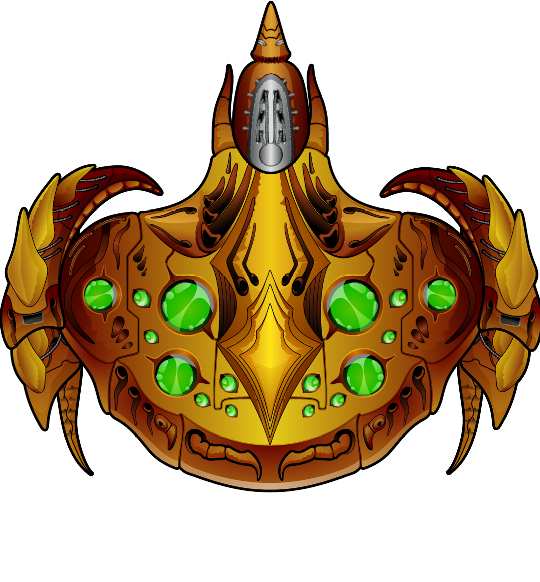
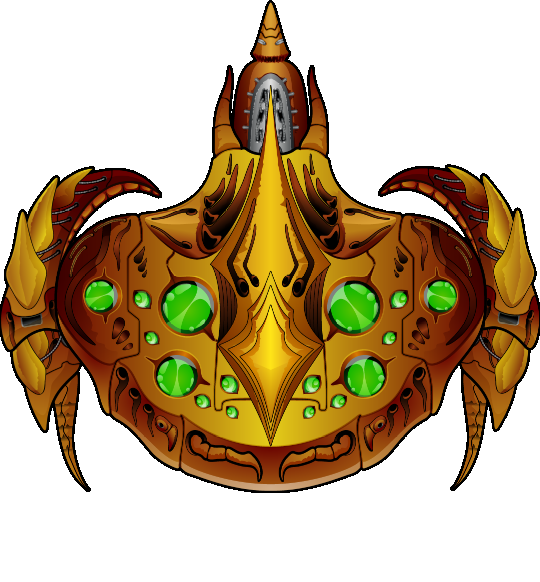
fixed landing animation png

Changed region(s): [[0.0, 0.0, 1.0, 0.866], [0.5037, 0.3402, 0.5333, 0.4021]]

diff --git a/Ship/Ship.js b/Ship/Ship.js
@@ -7,8 +7,8 @@ class Ship {
         this.idleAnimation = new Animation(AM.getAsset("./assets/img/ship_idle_1.png"), 0, 0, 540, 581, 3, .3, 10, true);
         this.fireAnimation = new Animation(AM.getAsset("./assets/img/ship_attack_2.png"), 0, 0, 540, 580, 3, .2, 10, true);
         this.landAnimation = new Animation(AM.getAsset("./assets/img/ship_land.png"), 0, 0, 540, 582, 1, .2, 1, true);
-        this.landingDeploy = new Animation(AM.getAsset("./assets/img/ship_landing_deploy.png"), 0, 0, 540, 582, 4, .1, 14, true, false);
-        this.landingRetract = new Animation(AM.getAsset("./assets/img/ship_landing_deploy.png"), 0, 0, 540, 582, 4, .1, 14, true, true);
+        this.landingDeploy = new Animation(AM.getAsset("./assets/img/ship_landing_deploy.png"), 0, 0, 540, 582, 4, .1, 10, true, true);
+        this.landingRetract = new Animation(AM.getAsset("./assets/img/ship_landing_deploy.png"), 0, 0, 540, 582, 4, .1, 10, true, false);
         this.dieAnimation = new Animation(AM.getAsset("./assets/img/ship_death.png"), 0, 0, 540, 541, 3, .1, 10, true, true);
         this.deathAnimation = new Animation(AM.getAsset("./assets/img/ship_dead.png"), 0, 0, 540, 541, 1, .1, 1, true, true);
         this.animation = this.idleAnimation;
@@ -34,7 +34,7 @@ class Ship {
         this.shootstart = 0;
         this.landingStart = 0;
         this.swapAnimation = 0;
-        this.waitTime = 14 * .1 - .1;
+        this.waitTime = 10 * .1 - .1;
         this.flySize = 130;
         this.landSize = 100;
         this.deathTime = 0;

diff --git a/index.html b/index.html
@@ -55,14 +55,14 @@
     <script type="text/javascript" src="Ship/Ship.js"></script>
     <script type="text/javascript" src="Ship/AlienShip.js"></script>
 
-    <!--Status-->
-    <script type="text/javascript" src="Status/TextInfo.js"></script>
-    <script type="text/javascript" src="Status/Health.js"></script>
-    <script type="text/javascript" src="Status/Fuel.js"></script>
-    <script type="text/javascript" src="Status/Particle.js"></script>
-    <script type="text/javascript" src="Status/Progressbar.js"></script>
-    <script type="text/javascript" src="Status/ProgressbarHandler.js"></script>
-    <script type="text/javascript" src="Status/Icon.js"></script>
+    <!--Hud-->
+    <script type="text/javascript" src="Hud/TextInfo.js"></script>
+    <script type="text/javascript" src="Hud/Health.js"></script>
+    <script type="text/javascript" src="Hud/Fuel.js"></script>
+    <script type="text/javascript" src="Hud/Particle.js"></script>
+    <script type="text/javascript" src="Hud/Progressbar.js"></script>
+    <script type="text/javascript" src="Hud/ProgressbarHandler.js"></script>
+    <script type="text/javascript" src="Hud/Icon.js"></script>
 
 
     <!--Tile-->

diff --git a/Hud/ProgressbarHandler.js b/Hud/ProgressbarHandler.js
@@ -101,7 +101,7 @@ class ProgressbarHandler {
 
     softReset(ctx) {
         let offset = this.h / 2 - 12;
-        ctx.fillRect(this.x, this.y + offset, this.w, 25);
+        // ctx.fillRect(this.x, this.y + offset, this.w, 25);
     }
 
     hardReset(ctx) {

diff --git a/Hud/TextInfo.js b/Hud/TextInfo.js
@@ -20,6 +20,7 @@ class TextInfo {
     }
 
     update() {
+        this.elevation = -1 * ((ship.y + ship.w * .5)/10 - 2 | 0);
         this.string = "Balance: " + this.balance + " Elevation: " + this.elevation + " Capacity: " + this.cargoCapacity;
     }
 

diff --git a/Game/main.js b/Game/main.js
@@ -57,7 +57,7 @@ function startGame()  {
         gameEngine.start();
         gameEngine.addEntity(camera);
 
-        // status = new Status(ship);
+        // status = new Hud(ship);
 
 
         genworld(gameEngine, worldWidth, worldHeight, tiles);

diff --git a/Hud/Hud.js b/Hud/Hud.js
@@ -1,0 +1,5 @@
+class Hud {
+    constructor(ship) {
+        this.ship = ship;
+    }
+}
